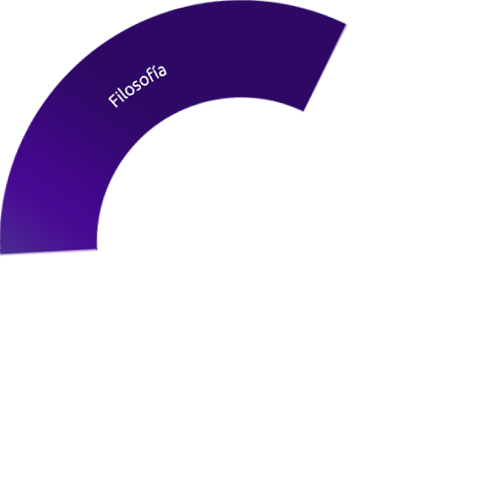
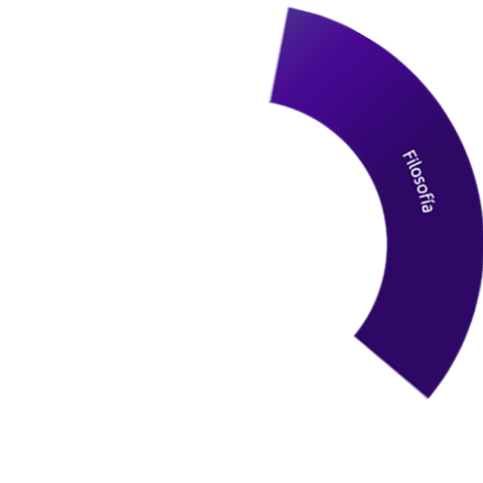
Educamedia. Reemplazadas las imagenes de aros de semestre VI. Armado de aros de semestre I y II de telebachillerato. Delimitadas las áreas de aros de semestre I y II de telebachillerato para resaltar y agregar ligas en cada materia. Agregadas las clases de estilo para esos semestres. Solución de Ima

diff --git a/resources/views/viewMediateca/semestreI.blade.php b/resources/views/viewMediateca/semestreI.blade.php
@@ -6,33 +6,32 @@
 	@include('viewMediateca.encabezadoMediateca')
 @endsection
 @section('cuerpoMediateca')
-	<div class="col-xs-12 col-sm-12 col-md-12 col-lg-12 text-center textoTitulo bajaFila">
-		<?php
-			generaBreadCrumbs();
-		?>
+	<div class="col-xs-12 col-sm-12 col-md-12 col-lg-12 text-center" style="padding:4%">
 	</div>
-	<div class="col-xs-6 col-sm-6 col-md-6 col-lg-6 col-xs-offset-2 col-sm-offset-2 col-md-offset-2 col-lg-offset-2" style="padding:10%;">
-		<a href="{{(url('educamedia/telebachillerato/I/5/1'))}}">
-			{{HTML::image('imagenes/mediateca/tbachillerato/SemestreI/InformaticaI.png','Telebachillerato InformaticaI',['class'=>'InformaticaI', 'id'=>'InformaticaI', 'onmouseover'=>'muestraImgCentro("SemestreI","InformaticaI")', 'onmouseout'=>'ocultaImgCentro("SemestreI","InformaticaI")'])}}
-		</a>
-		<a href="{{(url('educamedia/telebachillerato/I/4/1'))}}">
-			{{HTML::image('imagenes/mediateca/tbachillerato/SemestreI/TallerLectura.png','Telebachillerato TallerLectura',['class'=>'TallerLectura', 'id'=>'TallerLectura', 'onmouseover'=>'muestraImgCentro("SemestreI","TallerLectura")', 'onmouseout'=>'ocultaImgCentro("SemestreI","TallerLectura")'])}}
-		</a>
-		<a href="{{(url('educamedia/telebachillerato/I/3/1'))}}">
-			{{HTML::image('imagenes/mediateca/tbachillerato/SemestreI/IntroCS.png','Telebachillerato IntroCS',['class'=>'IntroCS', 'id'=>'IntroCS', 'onmouseover'=>'muestraImgCentro("SemestreI","IntroCS")', 'onmouseout'=>'ocultaImgCentro("SemestreI","IntroCS")'])}}
-		</a>
-		<a href="{{(url('educamedia/telebachillerato/I/7/1'))}}">
-			{{HTML::image('imagenes/mediateca/tbachillerato/SemestreI/EticaValoresI.png','Telebachillerato EticaValoresI',['class'=>'EticaValoresI', 'id'=>'EticaValoresI', 'onmouseover'=>'muestraImgCentro("SemestreI","EticaValoresI")', 'onmouseout'=>'ocultaImgCentro("SemestreI","EticaValoresI")'])}}
-		</a>
-		<a href="{{(url('educamedia/telebachillerato/I/1/1'))}}">
-			{{HTML::image('imagenes/mediateca/tbachillerato/SemestreI/MatematicasI.png','Telebachillerato MatematicasI',['class'=>'MatematicasI', 'id'=>'MatematicasI', 'onmouseover'=>'muestraImgCentro("SemestreI","MatematicasI")', 'onmouseout'=>'ocultaImgCentro("SemestreI","MatematicasI")'])}}
-		</a>
-		<a href="{{(url('educamedia/telebachillerato/I/6/1'))}}">
-			{{HTML::image('imagenes/mediateca/tbachillerato/SemestreI/LenguaAdicionalI.png','Telebachillerato LenguaAdicionalI',['class'=>'LenguaAdicionalI', 'id'=>'LenguaAdicionalI', 'onmouseover'=>'muestraImgCentro("SemestreI","LenguaAdicionalI")', 'onmouseout'=>'ocultaImgCentro("SemestreI","LenguaAdicionalI")'])}}
-		</a>
-		<a href="{{(url('educamedia/telebachillerato/I/2/1'))}}">
-			{{HTML::image('imagenes/mediateca/tbachillerato/SemestreI/QuimicaI.png','Telebachillerato QuimicaI',['class'=>'QuimicaI', 'id'=>'QuimicaI', 'onmouseover'=>'muestraImgCentro("SemestreI","QuimicaI")', 'onmouseout'=>'ocultaImgCentro("SemestreI","QuimicaI")'])}}
-		</a>
+	<div class="col-xs-12 col-sm-12 col-md-12 col-lg-12 text-center textoTitulo">
+		<p><?php
+			generaBreadCrumbs();
+		?></p><br>
+	</div>
+	<div class="col-xs-6 col-sm-6 col-md-6 col-lg-6 col-xs-offset-4 col-sm-offset-4 col-md-offset-4 col-lg-offset-4">
+		<map name="mapaSemI" id="mapaSemI">
+			<area alt="" title="" href="{{(url('educamedia/telebachillerato/I/5/1'))}}" onmouseover="resaltaImgSecu('SemestreI','InformaticaI')" onmouseout="normalImgSecu('SemestreI','InformaticaI')" shape="poly" coords="1,233,100,232,106,198,116,169,132,144,161,124,101,45,79,60,61,78,37,112,19,146,5,194" />
+			<area alt="" title="" href="{{(url('educamedia/telebachillerato/I/4/1'))}}" onmouseover="resaltaImgSecu('SemestreI','TallerLectura')" onmouseout="normalImgSecu('SemestreI','TallerLectura')"shape="poly" coords="163,123,104,44,134,27,164,12,187,3,269,0,314,10,284,103,258,96,218,96,190,103" />
+			<area alt="" title="" href="{{(url('educamedia/telebachillerato/I/3/1'))}}" onmouseover="resaltaImgSecu('SemestreI','IntroCS')" onmouseout="normalImgSecu('SemestreI','IntroCS')"shape="poly" coords="287,103,316,12,349,27,379,40,402,62,430,90,457,131,471,161,375,192,362,162,331,128" />
+			<area alt="" title="" href="{{(url('educamedia/telebachillerato/I/7/1'))}}" onmouseover="resaltaImgSecu('SemestreI','EticaValoresI')" onmouseout="normalImgSecu('SemestreI','EticaValoresI')"shape="poly" coords="377,192,470,164,483,204,482,263,478,301,467,336,451,364,367,313,382,276,387,250,386,219" />
+			<area alt="" title="" href="{{(url('educamedia/telebachillerato/I/1/1'))}}" onmouseover="resaltaImgSecu('SemestreI','MatematicasI')" onmouseout="normalImgSecu('SemestreI','MatematicasI')"shape="poly" coords="266,384,281,480,336,465,379,443,416,410,442,378,450,366,367,314,349,338,317,366" />
+			<area alt="" title="" href="{{(url('educamedia/telebachillerato/I/6/1'))}}" onmouseover="resaltaImgSecu('SemestreI','LenguaAdicionalI')" onmouseout="normalImgSecu('SemestreI','LenguaAdicionalI')"shape="poly" coords="144,348,179,371,208,382,248,386,266,384,281,482,203,483,155,471,123,453,97,438,81,424" />
+			<area alt="" title="" href="{{(url('educamedia/telebachillerato/I/2/1'))}}" onmouseover="resaltaImgSecu('SemestreI','QuimicaI')" onmouseout="normalImgSecu('SemestreI','QuimicaI')" shape="poly" coords="82,421,143,348,137,340,120,317,107,285,99,253,99,234,95,233,2,234,2,248,2,273,3,298,12,316,21,340,40,381" />
+		</map>
+		{{HTML::image('imagenes/mediateca/tbachillerato/SemestreI/SemestreI.png','telebachillerato Semestre I',['class'=>'posicionInicial img-responsive', 'id'=>'SemestreI'])}}
+			{{HTML::image('imagenes/mediateca/tbachillerato/SemestreI/InformaticaIHover.png','Telebachillerato InformaticaI',['class'=>'resaltaImg img-responsive', 'id'=>'InformaticaIHover'])}}
+			{{HTML::image('imagenes/mediateca/tbachillerato/SemestreI/TallerLecturaHover.png','Telebachillerato TallerLectura',['class'=>'resaltaImg img-responsive', 'id'=>'TallerLecturaHover'])}}
+			{{HTML::image('imagenes/mediateca/tbachillerato/SemestreI/IntroCSHover.png','Telebachillerato IntroCS',['class'=>'resaltaImg img-responsive', 'id'=>'IntroCSHover'])}}
+			{{HTML::image('imagenes/mediateca/tbachillerato/SemestreI/EticaValoresIHover.png','Telebachillerato EticaValoresI',['class'=>'resaltaImg img-responsive', 'id'=>'EticaValoresIHover'])}}
+			{{HTML::image('imagenes/mediateca/tbachillerato/SemestreI/MatematicasIHover.png','Telebachillerato MatematicasI',['class'=>'resaltaImg img-responsive', 'id'=>'MatematicasIHover'])}}
+			{{HTML::image('imagenes/mediateca/tbachillerato/SemestreI/LenguaAdicionalIHover.png','Telebachillerato LenguaAdicionalI',['class'=>'resaltaImg img-responsive', 'id'=>'LenguaAdicionalIHover'])}}
+			{{HTML::image('imagenes/mediateca/tbachillerato/SemestreI/QuimicaIHover.png','Telebachillerato QuimicaI',['class'=>'resaltaImg img-responsive', 'id'=>'QuimicaIHover'])}}
+		{{HTML::image('imagenes/mediateca/tbachillerato/SemestreI/imgMapa.png','Telebachillerato Semestre I',['class'=>'posicionMapa img-responsive', 'id'=>'telebachilleratoSEMI', 'usemap'=>'#mapaSemI'])}}
 	</div>
     @include('viewMediateca.barraSociales')
 @endsection

diff --git a/resources/views/viewMediateca/semestreII.blade.php b/resources/views/viewMediateca/semestreII.blade.php
@@ -14,27 +14,24 @@
 		?></p><br>
 	</div>
 	<div class="col-xs-6 col-sm-6 col-md-6 col-lg-6 col-xs-offset-4 col-sm-offset-4 col-md-offset-4 col-lg-offset-4">
-		<a href="{{(url('educamedia/telebachillerato/II/12/1'))}}">
-			{{HTML::image('imagenes/mediateca/tbachillerato/SemestreII/InformaticaII.png','Telebachillerato InformaticaII',['class'=>'InformaticaII', 'id'=>'InformaticaII', 'onmouseover'=>'muestraImgCentro("SemestreII","InformaticaII")', 'onmouseout'=>'ocultaImgCentro("SemestreII","InformaticaII")'])}}
-		</a>
-		<a href="{{(url('educamedia/telebachillerato/II/11/1'))}}">
-			{{HTML::image('imagenes/mediateca/tbachillerato/SemestreII/TallerLecturaII.png','Telebachillerato TallerLecturaII',['class'=>'TallerLecturaII', 'id'=>'TallerLecturaII', 'onmouseover'=>'muestraImgCentro("SemestreII","TallerLecturaII")', 'onmouseout'=>'ocultaImgCentro("SemestreII","TallerLecturaII")'])}}
-		</a>
-		<a href="{{(url('educamedia/telebachillerato/II/10/1'))}}">
-			{{HTML::image('imagenes/mediateca/tbachillerato/SemestreII/HistoriaMexicoI.png','Telebachillerato HistoriaMexicoI',['class'=>'HistoriaMexicoI', 'id'=>'HistoriaMexicoI', 'onmouseover'=>'muestraImgCentro("SemestreII","HistoriaMexicoI")', 'onmouseout'=>'ocultaImgCentro("SemestreII","HistoriaMexicoI")'])}}
-		</a>
-		<a href="{{(url('educamedia/telebachillerato/II/14/1'))}}">
-			{{HTML::image('imagenes/mediateca/tbachillerato/SemestreII/EticaValoresII.png','Telebachillerato EticaValoresII',['class'=>'EticaValoresII', 'id'=>'EticaValoresII', 'onmouseover'=>'muestraImgCentro("SemestreII","EticaValoresII")', 'onmouseout'=>'ocultaImgCentro("SemestreII","EticaValoresII")'])}}
-		</a>
-		<a href="{{(url('educamedia/telebachillerato/II/8/1'))}}">
-			{{HTML::image('imagenes/mediateca/tbachillerato/SemestreII/MatematicasII.png','Telebachillerato MatematicasII',['class'=>'MatematicasII', 'id'=>'MatematicasII', 'onmouseover'=>'muestraImgCentro("SemestreII","MatematicasII")', 'onmouseout'=>'ocultaImgCentro("SemestreII","MatematicasII")'])}}
-		</a>
-		<a href="{{(url('educamedia/telebachillerato/II/13/1'))}}">
-			{{HTML::image('imagenes/mediateca/tbachillerato/SemestreII/LenguaAdicionalII.png','Telebachillerato LenguaAdicionalII',['class'=>'LenguaAdicionalII', 'id'=>'LenguaAdicionalII', 'onmouseover'=>'muestraImgCentro("SemestreII","LenguaAdicionalII")', 'onmouseout'=>'ocultaImgCentro("SemestreII","LenguaAdicionalII")'])}}
-		</a>
-		<a href="{{(url('educamedia/telebachillerato/II/9/1'))}}">
-			{{HTML::image('imagenes/mediateca/tbachillerato/SemestreII/QuimicaII.png','Telebachillerato QuimicaII',['class'=>'QuimicaII', 'id'=>'QuimicaII', 'onmouseover'=>'muestraImgCentro("SemestreII","QuimicaII")', 'onmouseout'=>'ocultaImgCentro("SemestreII","QuimicaII")'])}}
-		</a>
+		<map name="mapaSemII" id="mapaSemII">
+			<area alt="" onmouseover="resaltaImgSecu('SemestreII','InformaticaII')" onmouseout="normalImgSecu('SemestreII','InformaticaII')" title="" href="{{(url('educamedia/telebachillerato/II/12/1'))}}" shape="poly" coords="1,232,99,232,103,209,111,183,124,158,140,140,159,124,101,45,83,58,60,81,36,111,13,159,4,192" />
+			<area alt="" onmouseover="resaltaImgSecu('SemestreII','TallerLecturaII')" onmouseout="normalImgSecu('SemestreII','TallerLecturaII')" title="" href="{{(url('educamedia/telebachillerato/II/11/1'))}}" shape="poly" coords="161,121,102,44,129,28,156,15,192,5,212,0,256,1,295,5,313,10,282,104,250,96,199,101" />
+			<area alt="" onmouseover="resaltaImgSecu('SemestreII','HistoriaMexicoI')" onmouseout="normalImgSecu('SemestreII','HistoriaMexicoI')" title="" href="{{(url('educamedia/telebachillerato/II/10/1'))}}" shape="poly" coords="285,104,316,12,352,25,374,39,397,55,420,76,448,112,466,149,471,164,376,192,357,154,326,124" />
+			<area alt="" onmouseover="resaltaImgSecu('SemestreII','EticaValoresII')" onmouseout="normalImgSecu('SemestreII','EticaValoresII')" title="" href="{{(url('educamedia/telebachillerato/II/14/1'))}}" shape="poly" coords="378,193,471,166,482,203,483,278,471,322,451,365,367,314,382,273,387,237" />
+			<area alt="" onmouseover="resaltaImgSecu('SemestreII','MatematicasII')" onmouseout="normalImgSecu('SemestreII','MatematicasII')" title="" href="{{(url('educamedia/telebachillerato/II/8/1'))}}" shape="poly" coords="265,384,281,481,364,452,392,434,422,406,448,367,450,364,367,316,349,338,323,357,297,373" />
+			<area alt="" onmouseover="resaltaImgSecu('SemestreII','LenguaAdicionalII')" onmouseout="normalImgSecu('SemestreII','LenguaAdicionalII')" title="" href="{{(url('educamedia/telebachillerato/II/13/1'))}}" shape="poly" coords="281,479,265,383,248,387,224,385,192,377,159,359,144,348,82,422,109,445,157,470,204,482" />
+			<area alt="" onmouseover="resaltaImgSecu('SemestreII','QuimicaII')" onmouseout="normalImgSecu('SemestreII','QuimicaII')" title="" href="{{(url('educamedia/telebachillerato/II/9/1'))}}" shape="poly" coords="82,421,143,348,137,340,120,317,107,285,99,253,99,234,95,233,2,234,2,248,2,273,3,298,12,316,21,340,40,381" />
+		</map>
+		{{HTML::image('imagenes/mediateca/tbachillerato/SemestreII/SemestreII.png','telebachillerato Semestre II',['class'=>'posicionInicial img-responsive', 'id'=>'SemestreII'])}}
+			{{HTML::image('imagenes/mediateca/tbachillerato/SemestreII/InformaticaIIHover.png','Telebachillerato InformaticaII',['class'=>'resaltaImg img-responsive', 'id'=>'InformaticaIIHover'])}}
+			{{HTML::image('imagenes/mediateca/tbachillerato/SemestreII/TallerLecturaIIHover.png','Telebachillerato TallerLecturaII',['class'=>'resaltaImg img-responsive', 'id'=>'TallerLecturaIIHover'])}}
+			{{HTML::image('imagenes/mediateca/tbachillerato/SemestreII/HistoriaMexicoIHover.png','Telebachillerato HistoriaMexicoI',['class'=>'resaltaImg img-responsive', 'id'=>'HistoriaMexicoIHover'])}}
+			{{HTML::image('imagenes/mediateca/tbachillerato/SemestreII/EticaValoresIIHover.png','Telebachillerato EticaValoresII',['class'=>'resaltaImg img-responsive', 'id'=>'EticaValoresIIHover'])}}
+			{{HTML::image('imagenes/mediateca/tbachillerato/SemestreII/MatematicasIIHover.png','Telebachillerato MatematicasII',['class'=>'resaltaImg img-responsive', 'id'=>'MatematicasIIHover'])}}
+			{{HTML::image('imagenes/mediateca/tbachillerato/SemestreII/LenguaAdicionalIIHover.png','Telebachillerato LenguaAdicionalII',['class'=>'resaltaImg img-responsive', 'id'=>'LenguaAdicionalIIHover'])}}
+			{{HTML::image('imagenes/mediateca/tbachillerato/SemestreII/QuimicaIIHover.png','Telebachillerato QuimicaII',['class'=>'resaltaImg img-responsive', 'id'=>'QuimicaIIHover'])}}
+		{{HTML::image('imagenes/mediateca/tbachillerato/SemestreII/imgMapa.png','Telebachillerato',['class'=>'posicionMapa img-responsive', 'id'=>'telebachilleratoSEMII', 'usemap'=>'#mapaSemII'])}}
 	</div>
 	@include('viewMediateca.barraSociales')
 @endsection

diff --git a/resources/views/viewMediateca/mediateca.blade.php b/resources/views/viewMediateca/mediateca.blade.php
@@ -6,41 +6,6 @@
 	@include('viewMediateca.encabezadoMediateca')
 @endsection
 @section('cuerpoMediateca')
-	<style>
-		.bajaFila{
-			position:relative; top:80px; z-index:10;
-		}
-		.telesecundaria{
-			position: absolute; top:0px; left:15px;  z-index:5; visibility: hidden;
-		}
-		.telebachillerato{
-			position: absolute; top:240px; left:15px; z-index:5; visibility: hidden; 
-		}
-		.iniImgCentro{
-			position: absolute; top:100px; left:100px; width:289px; height: 289px; z-index:0; visibility: hidden;
-		}
-	</style>
-	<script>
-		function muestraImgCentral(idImg){
-			var idImgHover = "#" + idImg + "Hover";
-			$(idImgHover).css("visibility", "visible");
-			var idImgCentro = "#" + idImg + "Centro";
-			$(idImgCentro).addClass("bounceIn");
-			$(idImgCentro).addClass("animated");
-			$(idImgCentro).css("visibility", "visible");
-			$(idImgCentro).css("zIndex", 0);
-			$(idImgCentro).fadeIn();
-		}
-		function ocultaImgCentral(idImg){
-			var idImgHover = "#" + idImg + "Hover";
-			$(idImgHover).css("visibility", "hidden");
-			var idImgCentro = "#" + idImg + "Centro";
-			$(idImgCentro).css("visibility", "hidden");
-			$(idImgCentro).fadeOut();
-			$(idImgCentro).removeClass("animated");
-			$(idImgCentro).removeClass("bounceIn");
-		}
-	</script>
 	<div class="col-xs-12 col-sm-12 col-md-12 col-lg-12 text-center" style="padding:4%">
 	</div>
 	<div class="col-xs-12 col-sm-12 col-md-12 col-lg-12 text-center textoTitulo">
@@ -51,15 +16,15 @@
 	</div>
 	<div class="col-xs-6 col-sm-6 col-md-6 col-lg-6 col-xs-offset-4 col-sm-offset-4 col-md-offset-4 col-lg-offset-4 ">
 	<map name="inicioEducamedia" id="inicioEducamedia">
-		<area alt="" title="" href="{{url('educamedia/telesecundaria')}}" onmouseover="muestraImgCentral('telesec')" onmouseout="ocultaImgCentral('telesec')" shape="poly" coords="1,240,6,176,40,104,83,55,125,28,161,12,214,1,282,0,335,17,396,53,447,111,477,180,482,240,385,242,368,176,330,133,293,107,194,103,142,134,115,180,97,239" />
-		<area alt="" title="" href="{{url('educamedia/telebachillerato')}}" shape="poly" onmouseover="muestraImgCentral('telebach')" onmouseout="ocultaImgCentral('telebach')" coords="0,243,7,306,27,357,70,418,114,449,181,479,210,481,275,481,341,464,399,428,442,380,467,330,482,274,482,242,381,246,372,297,344,339,317,361,273,379,212,382,166,365,121,318,107,288,97,241" />
+		<area alt="" title="" href="{{url('educamedia/telesecundaria')}}" onmouseover="muestraImgCentral('telesec')" shape="poly" coords="1,240,6,176,40,104,83,55,125,28,161,12,214,1,282,0,335,17,396,53,447,111,477,180,482,240,385,242,368,176,330,133,293,107,194,103,142,134,115,180,97,239" />
+		<area alt="" title="" href="{{url('educamedia/telebachillerato')}}" onmouseover="muestraImgCentral('telebach')" shape="poly" coords="0,243,7,306,27,357,70,418,114,449,181,479,210,481,275,481,341,464,399,428,442,380,467,330,482,274,482,242,381,246,372,297,344,339,317,361,273,379,212,382,166,365,121,318,107,288,97,241" />
 	</map>
-		{{HTML::image('imagenes/mediateca/Inicio/home.png','Telesecundaria',['id'=>'iniEducamedia', 'usemap'=>'inicioEducamedia'])}}
+		{{HTML::image('imagenes/mediateca/Inicio/home.png','Telesecundaria',['id'=>'iniEducamedia', 'usemap'=>'#inicioEducamedia'])}}
 		<a href="{{url('educamedia/telesecundaria')}}">
-			{{HTML::image('imagenes/mediateca/Inicio/telesecHover.png','Telesecundaria',['class'=>'telesecundaria', 'id'=>'telesecHover', 'onmouseover'=>'muestraImgCentral("telesec")', 'onmouseout'=>'ocultaImgCentral("telesec")'])}}
+			{{HTML::image('imagenes/mediateca/Inicio/telesecHover.png','Telesecundaria',['class'=>'telesecundaria', 'id'=>'telesecHover', 'onmouseout'=>'ocultaImgCentral("telesec")'])}}
 		</a>
 		<a href="{{url('educamedia/telebachillerato')}}">
-			{{HTML::image('imagenes/mediateca/Inicio/telebachHover.png','Telesecundaria',['class'=>'telebachillerato', 'id'=>'telebachHover', 'onmouseover'=>'muestraImgCentral("telebach")', 'onmouseout'=>'ocultaImgCentral("telebach")'])}}
+			{{HTML::image('imagenes/mediateca/Inicio/telebachHover.png','Telesecundaria',['class'=>'telebachillerato', 'id'=>'telebachHover', 'onmouseout'=>'ocultaImgCentral("telebach")'])}}
 		</a>
 		{{HTML::image('imagenes/mediateca/Inicio/TelebachilleratoCentro.png','Telebachillerato Central',['class'=>'iniImgCentro', 'id'=>'telebachCentro'])}}
 		{{HTML::image('imagenes/mediateca/Inicio/TelesecundariaCentro.png','Telesecundaria Central',['class'=>'iniImgCentro', 'id'=>'telesecCentro'])}}

diff --git a/resources/views/viewMediateca/encabezadoMediateca.blade.php b/resources/views/viewMediateca/encabezadoMediateca.blade.php
@@ -1,8 +1,5 @@
 <!--nuevo encabezado-->
 <style>
-	.bajaFila{
-		position:relative; top:80px; z-index:10;
-	}
 /*	----------	Estilo encabezado	----------*/
 	.ocultaImgApp{
 		visibility:hidden;
@@ -19,7 +16,7 @@
 		font-family:'Ubuntu';
 		font-size:17px;
 	}
-
+/*	----------	Estilo General todos los grados	----------*/
 	.posicionInicial{
 		position: absolute; top:0; left:0; z-index:2;
 	}
@@ -32,22 +29,20 @@
 	.imgPrimeroCentral{
 		position: absolute; top:130px; left:130px; z-index:0; visibility: hidden;
 	}
-
-/*	----------	Estilo pagina de telesecundaria	----------	*/
-	.telesecPrimero{
-		position:absolute; top:-80px; left:-25px; z-index:1; visibility:hidden;
-	}
-	.telesecSegundo{
-		position: absolute; top:23px; left:193px; z-index:1; visibility:hidden;
-	}
-	.telesecTercero{
-		position:absolute; top:151px; left:-6px; z-index:1; visibility:hidden;
-	}
+/*	----------	Estilo pagina Inicio telesecundaria	----------	*/		
 	.imgTelesecCentro{
-		position: absolute; top:150px; left:150px; width:215px; height: 140px; z-index:0; visibility: hidden;
+		position: absolute; top:160px; left:140px; z-index:0; visibility: hidden;
 	}
-
-
+/*	----------	Estilo pagina Inicio Educamedia	----------	*/	
+	.telesecundaria{
+		position: absolute; top:0px; left:15px;  z-index:5; visibility: hidden;
+	}
+	.telebachillerato{
+		position: absolute; top:240px; left:15px; z-index:5; visibility: hidden; 
+	}
+	.iniImgCentro{
+		position: absolute; top:100px; left:100px; width:289px; height: 289px; z-index:0; visibility: hidden;
+	}
 </style>
 <script>
 	/*	-------------------------------------	Hace visible o invisible los iconos de apps adicionales	--------------------------------------	*/
@@ -88,41 +83,25 @@
 			$(idImgCentro).removeClass("animated");
 			$(idImgCentro).removeClass("bounceIn");
 		}
-	/*	----------	Manipula imagenes del centro del aro en telesecundaria	----------	*/
-		function muestraImgCentroSecu(prefijo, idImg){
-			document.getElementById(idImg).style.zIndex='5';
-			var idImgHover = "{{url('imagenes/mediateca/tsecundaria')}}" + "/" + prefijo + "/" + idImg + "Hover.png";
-			document.getElementById(idImg).src = idImgHover;
+	/*	----------	Manipula imagenes del centro del aro en inicio mediateca	----------	*/
+		function muestraImgCentral(idImg){
+			var idImgHover = "#" + idImg + "Hover";
+			$(idImgHover).css("visibility", "visible");
 			var idImgCentro = "#" + idImg + "Centro";
 			$(idImgCentro).addClass("bounceIn");
 			$(idImgCentro).addClass("animated");
 			$(idImgCentro).css("visibility", "visible");
+			$(idImgCentro).css("zIndex", 0);
 			$(idImgCentro).fadeIn();
-			
 		}
-		function ocultaImgCentroSecu(prefijo, idImg){
-			document.getElementById(idImg).style.zIndex='1';
-			var idImgHover = "{{url('imagenes/mediateca/tsecundaria')}}" + "/" + prefijo + "/" + idImg + ".png";
-			document.getElementById(idImg).src = idImgHover;
+		function ocultaImgCentral(idImg){
+			var idImgHover = "#" + idImg + "Hover";
+			$(idImgHover).css("visibility", "hidden");
 			var idImgCentro = "#" + idImg + "Centro";
 			$(idImgCentro).css("visibility", "hidden");
 			$(idImgCentro).fadeOut();
 			$(idImgCentro).removeClass("animated");
 			$(idImgCentro).removeClass("bounceIn");
-		}
-	/*	----------	Manipula imagenes del centro del aro en telebachillerato	----------	*/
-		function muestraImgCentro(prefijo, idImg){
-			var idImgHover = "{{url('imagenes/mediateca/tbachillerato')}}" + "/" + prefijo + "/" + idImg + "Hover.png";
-			document.getElementById(idImg).src = idImgHover;
-			/*var idImgCentro = idImg + "Centro";
-			document.getElementById(idImgCentro).style.visibility = "visible";*/
-			
-		}
-		function ocultaImgCentro(prefijo, idImg){
-			var idImgHover = "{{url('imagenes/mediateca/tbachillerato')}}" + "/" + prefijo + "/" + idImg + ".png";
-			document.getElementById(idImg).src = idImgHover;
-			/*var idImgCentro = idImg + "Centro";
-			document.getElementById(idImgCentro).style.visibility = "hidden";*/
 		}
 	</script>
 <nav id="navegacionMediateca" class="navbar navbar-default navbar-fixed-top lo menuVentana" role="navigation">

diff --git a/resources/views/viewMediateca/semestreVI.blade.php b/resources/views/viewMediateca/semestreVI.blade.php
@@ -15,15 +15,15 @@ Educamedia
 	</div>
 	<div class="col-xs-6 col-sm-6 col-md-6 col-lg-6 col-xs-offset-4 col-sm-offset-4 col-md-offset-4 col-lg-offset-4">
 		<map name="mapaSemVI" id="mapaSemVI">
-			<area alt="" title="" href="{{(url('educamedia/telebachillerato/VI/30/1'))}}" onmouseover="resaltaImgSecu('SemestreVI','Filosofia')" onmouseout="normalImgSecu('SemestreVI','Filosofia')" shape="poly" coords="1,260,100,253,100,220,109,184,133,147,169,116,206,103,253,100,283,103,306,113,351,26,328,17,310,10,283,2,275,2,202,1,173,9,144,18,91,48,46,93,25,131,8,167,2,211" />
-			<area alt="" title="" href="{{(url('educamedia/telebachillerato/VI/31/1'))}}" onmouseover="resaltaImgSecu('SemestreVI','Metodologia')" onmouseout="normalImgSecu('SemestreVI','Metodologia')" shape="poly" coords="1,260,99,253,109,290,126,326,153,353,187,375,218,384,255,384,296,377,321,362,375,444,355,457,313,472,273,483,208,482,177,475,121,455,72,415,34,369,10,322" />
-			<area alt="" title="" href="{{(url('educamedia/telebachillerato/VI/29/1'))}}" onmouseover="resaltaImgSecu('SemestreVI','Ecologia')" onmouseout="normalImgSecu('SemestreVI','Ecologia')" shape="poly" coords="307,114,351,25,400,58,445,112,474,172,482,212,483,278,453,367,434,391,375,446,321,362,353,333,377,289,386,240,377,188,344,138" />
+			<area alt="" title="" href="{{(url('educamedia/telebachillerato/VI/30/1'))}}" onmouseover="resaltaImgSecu('SemestreVI','Filosofia')" onmouseout="normalImgSecu('SemestreVI','Filosofia')" shape="poly" coords="286,7,268,102,334,136,372,184,386,230,378,291,354,339,428,399,458,354,476,301,483,250,481,196,460,137,430,88,385,46,338,22" />
+			<area alt="" title="" href="{{(url('educamedia/telebachillerato/VI/31/1'))}}" onmouseover="resaltaImgSecu('SemestreVI','Metodologia')" onmouseout="normalImgSecu('SemestreVI','Metodologia')" shape="poly" coords="109,296,17,330,38,379,86,430,136,463,197,483,288,483,340,466,392,435,428,400,353,339,323,359,239,387,180,374,134,341" />
+			<area alt="" title="" href="{{(url('educamedia/telebachillerato/VI/29/1'))}}" onmouseover="resaltaImgSecu('SemestreVI','Ecologia')" onmouseout="normalImgSecu('SemestreVI','Ecologia')" shape="poly" coords="108,295,16,329,2,262,1,200,19,148,51,97,105,48,147,23,200,7,258,2,286,7,267,105,256,100,215,101,165,122,120,167,99,226" />
 		</map>
 		{{HTML::image('imagenes/mediateca/tbachillerato/SemestreVI/semestreVI.png','telebachillerato Semestre VI',['class'=>'posicionInicial img-responsive', 'id'=>'SemestreVI'])}}
 			{{HTML::image('imagenes/mediateca/tbachillerato/SemestreVI/EcologiaHover.png','Telebachillerato Ecologia',['class'=>'resaltaImg img-responsive', 'id'=>'EcologiaHover'])}}
 			{{HTML::image('imagenes/mediateca/tbachillerato/SemestreVI/FilosofiaHover.png','Telebachillerato Filosofia',['class'=>'resaltaImg img-responsive', 'id'=>'FilosofiaHover'])}}
 			{{HTML::image('imagenes/mediateca/tbachillerato/SemestreVI/MetodologiaHover.png','Telebachillerato Geografia',['class'=>'resaltaImg img-responsive', 'id'=>'MetodologiaHover'])}}
-		{{HTML::image('imagenes/mediateca/tbachillerato/SemestreVI/ImgMapa.png','Telebachillerato',['class'=>'posicionMapa img-responsive', 'id'=>'telebachilleratoSEMII', 'usemap'=>'#mapaSemVI'])}}
+		{{HTML::image('imagenes/mediateca/tbachillerato/SemestreVI/imgMapa.png','Telebachillerato',['class'=>'posicionMapa img-responsive', 'id'=>'telebachilleratoSEMII', 'usemap'=>'#mapaSemVI'])}}
 </div>
 @include('viewMediateca.barraSociales')
 @endsection

diff --git a/resources/views/viewMediateca/semestreIII.blade.php b/resources/views/viewMediateca/semestreIII.blade.php
@@ -22,14 +22,14 @@
 			<area alt="" title="" href="{{(url('educamedia/telebachillerato/III/15/1'))}}" onmouseover="resaltaImgSecu('SemestreIII','MatematicasIII')" onmouseout="normalImgSecu('SemestreIII','MatematicasIII')" shape="poly" coords="376,296,467,333,448,369,408,419,379,443,326,468,274,480,261,385,315,362,351,339" />
 			<area alt="" title="" href="{{(url('educamedia/telebachillerato/III/19/1'))}}" onmouseover="resaltaImgSecu('SemestreIII','LenguaAdicionalIII')" onmouseout="normalImgSecu('SemestreIII','LenguaAdicionalIII')" shape="poly" coords="53,392,129,333,162,362,204,381,238,386,260,386,273,482,200,482,164,473,119,452,73,419" />
 		</map>
-		{{HTML::image('imagenes/mediateca/tbachillerato/SemestreIII/SemestreIII.png','telebachillerato Semestre V',['class'=>'posicionInicial img-responsive', 'id'=>'SemestreIII'])}}
+		{{HTML::image('imagenes/mediateca/tbachillerato/SemestreIII/SemestreIII.png','telebachillerato Semestre III',['class'=>'posicionInicial img-responsive', 'id'=>'SemestreIII'])}}
 			{{HTML::image('imagenes/mediateca/tbachillerato/SemestreIII/BiologiaIHover.png','Telebachillerato BiologiaI',['class'=>'resaltaImg img-responsive', 'id'=>'BiologiaIHover'])}}
 			{{HTML::image('imagenes/mediateca/tbachillerato/SemestreIII/LiteraturaIHover.png','Telebachillerato LiteraturaI',['class'=>'resaltaImg img-responsive', 'id'=>'LiteraturaIHover'])}}
 			{{HTML::image('imagenes/mediateca/tbachillerato/SemestreIII/HistoriaMexicoIIHover.png','Telebachillerato HistoriaMexicoII',['class'=>'resaltaImg img-responsive', 'id'=>'HistoriaMexicoIIHover'])}}
 			{{HTML::image('imagenes/mediateca/tbachillerato/SemestreIII/FisicaIHover.png','Telebachillerato FisicaI',['class'=>'resaltaImg img-responsive', 'id'=>'FisicaIHover'])}}
 			{{HTML::image('imagenes/mediateca/tbachillerato/SemestreIII/MatematicasIIIHover.png','Telebachillerato MatematicasIII',['class'=>'resaltaImg img-responsive', 'id'=>'MatematicasIIIHover'])}}
 			{{HTML::image('imagenes/mediateca/tbachillerato/SemestreIII/LenguaAdicionalIIIHover.png','Telebachillerato LenguaAdicionalIII ',['class'=>'resaltaImg img-responsive', 'id'=>'LenguaAdicionalIIIHover'])}}
-		{{HTML::image('imagenes/mediateca/tbachillerato/SemestreIII/ImgMapa.png','Telebachillerato',['class'=>'posicionMapa img-responsive', 'id'=>'telebachilleratoSEMIII', 'usemap'=>'#mapaSemIII'])}}
+		{{HTML::image('imagenes/mediateca/tbachillerato/SemestreIII/imgMapa.png','Telebachillerato',['class'=>'posicionMapa img-responsive', 'id'=>'telebachilleratoSEMIII', 'usemap'=>'#mapaSemIII'])}}
 	</div>
 	@include('viewMediateca.barraSociales')
 @endsection

diff --git a/resources/views/viewMediateca/componente.blade.php b/resources/views/viewMediateca/componente.blade.php
@@ -33,7 +33,7 @@ Educamedia
 			{{HTML::image('imagenes/mediateca/tbachillerato/componente/ProbabilidadIIHover.png','Telesecundaria ProbabilidadII',['class'=>'resaltaImg img-responsive', 'id'=>'ProbabilidadIIHover'])}}
 			{{HTML::image('imagenes/mediateca/tbachillerato/componente/PsicologiaIHover.png','Telesecundaria PsicologiaI',['class'=>'resaltaImg img-responsive', 'id'=>'PsicologiaIHover'])}}
 			{{HTML::image('imagenes/mediateca/tbachillerato/componente/PsicologiaIIHover.png','Telesecundaria PsicologiaII',['class'=>'resaltaImg img-responsive', 'id'=>'PsicologiaIIHover'])}}
-			{{HTML::image('imagenes/mediateca/tbachillerato/componente/ImgMapa.png','Telebachillerato',['class'=>'posicionMapa img-responsive', 'id'=>'telebachilleratoSEMII', 'usemap'=>'#mapaSemPedagogico'])}}
+			{{HTML::image('imagenes/mediateca/tbachillerato/componente/imgMapa.png','Telebachillerato',['class'=>'posicionMapa img-responsive', 'id'=>'telebachilleratoSEMII', 'usemap'=>'#mapaSemPedagogico'])}}
 		<!--{{HTML::image('imagenes/mediateca/tsecundaria/iconoCentral/artesCentro.png','Telesecundaria central artes',['class'=>'imgPrimeroCentral', 'id'=>'artesCentro'])}}
 		{{HTML::image('imagenes/mediateca/tsecundaria/iconoCentral/orientacionCentro.png','Telesecundaria central orientacion',['class'=>'imgPrimeroCentral', 'id'=>'orientacionCentro'])}}
 		{{HTML::image('imagenes/mediateca/tsecundaria/iconoCentral/geografiaCentro.png','Telesecundaria central geografia',['class'=>'imgPrimeroCentral', 'id'=>'geografiaCentro'])}}

diff --git a/resources/views/viewMediateca/telesecundaria.blade.php b/resources/views/viewMediateca/telesecundaria.blade.php
@@ -6,9 +6,6 @@
 	@include('viewMediateca.encabezadoMediateca')
 @endsection
 @section('cuerpoMediateca')
-<style>
-
-</style>
 	<div class="col-xs-12 col-sm-12 col-md-12 col-lg-12 text-center" style="padding:4%">
 	</div>
 	<div class="col-xs-12 col-sm-12 col-md-12 col-lg-12 text-center textoTitulo">
@@ -29,7 +26,7 @@
 		{{HTML::image('imagenes/mediateca/tsecundaria/iconoCentral/centralPrimero.png','Telesecundaria central Primero',['class'=>'imgTelesecCentro', 'id'=>'primerGradoCentro'])}}
 		{{HTML::image('imagenes/mediateca/tsecundaria/iconoCentral/centralSegundo.png','Telesecundaria central Segundo',['class'=>'imgTelesecCentro', 'id'=>'segundoGradoCentro'])}}
 		{{HTML::image('imagenes/mediateca/tsecundaria/iconoCentral/centralTercero.png','Telesecundaria central Tercero',['class'=>'imgTelesecCentro', 'id'=>'tercerGradoCentro'])}}
-		{{HTML::image('imagenes/mediateca/tsecundaria/Inicio/ImgMapa.png','telesecundaria',['class'=>'posicionMapa img-responsive', 'id'=>'telebachilleratoSEMII', 'usemap'=>'#telesecGrados'])}}
+		{{HTML::image('imagenes/mediateca/tsecundaria/Inicio/imgMapa.png','telesecundaria',['class'=>'posicionMapa img-responsive', 'id'=>'telebachilleratoSEMII', 'usemap'=>'#telesecGrados'])}}
 	</div>
 	 @include('viewMediateca.barraSociales')
 @endsection

diff --git a/resources/views/viewMediateca/semestreIV.blade.php b/resources/views/viewMediateca/semestreIV.blade.php
@@ -29,7 +29,7 @@
 			{{HTML::image('imagenes/mediateca/tbachillerato/SemestreIV/FisicaIIHover.png','Telebachillerato FisicaII',['class'=>'resaltaImg img-responsive', 'id'=>'FisicaIIHover'])}}
 			{{HTML::image('imagenes/mediateca/tbachillerato/SemestreIV/MatematicasIVHover.png','Telebachillerato MatematicasIV',['class'=>'resaltaImg img-responsive', 'id'=>'MatematicasIVHover'])}}
 			{{HTML::image('imagenes/mediateca/tbachillerato/SemestreIV/LenguaAdicionalIVHover.png','Telebachillerato LenguaAdicionalIV ',['class'=>'resaltaImg img-responsive', 'id'=>'LenguaAdicionalIVHover'])}}
-		{{HTML::image('imagenes/mediateca/tbachillerato/SemestreIV/ImgMapa.png','Telebachillerato',['class'=>'posicionMapa img-responsive', 'id'=>'telebachilleratoSEMV', 'usemap'=>'#mapaSemIV'])}}
+		{{HTML::image('imagenes/mediateca/tbachillerato/SemestreIV/imgMapa.png','Telebachillerato',['class'=>'posicionMapa img-responsive', 'id'=>'telebachilleratoSEMV', 'usemap'=>'#mapaSemIV'])}}
 	</div>
 	@include('viewMediateca.barraSociales')
 @endsection

diff --git a/resources/views/viewMediateca/semestreV.blade.php b/resources/views/viewMediateca/semestreV.blade.php
@@ -21,7 +21,7 @@ Educamedia
 		{{HTML::image('imagenes/mediateca/tbachillerato/SemestreV/semestreV.png','telebachillerato Semestre V',['class'=>'posicionInicial img-responsive', 'id'=>'SemestreV'])}}
 			{{HTML::image('imagenes/mediateca/tbachillerato/SemestreV/GeografiaHover.png','Telebachillerato Geografia',['class'=>'resaltaImg img-responsive', 'id'=>'GeografiaHover'])}}
 			{{HTML::image('imagenes/mediateca/tbachillerato/SemestreV/HistoriaUnivHover.png','Telebachillerato HistoriaUniv',['class'=>'resaltaImg img-responsive', 'id'=>'HistoriaUnivHover'])}}
-		{{HTML::image('imagenes/mediateca/tbachillerato/SemestreV/ImgMapa.png','Telebachillerato',['class'=>'posicionMapa img-responsive', 'id'=>'telebachilleratoSEMV', 'usemap'=>'#mapaSemV'])}}
+		{{HTML::image('imagenes/mediateca/tbachillerato/SemestreV/imgMapa.png','Telebachillerato',['class'=>'posicionMapa img-responsive', 'id'=>'telebachilleratoSEMV', 'usemap'=>'#mapaSemV'])}}
 	</div>
 @include('viewMediateca.barraSociales')
 @endsection
